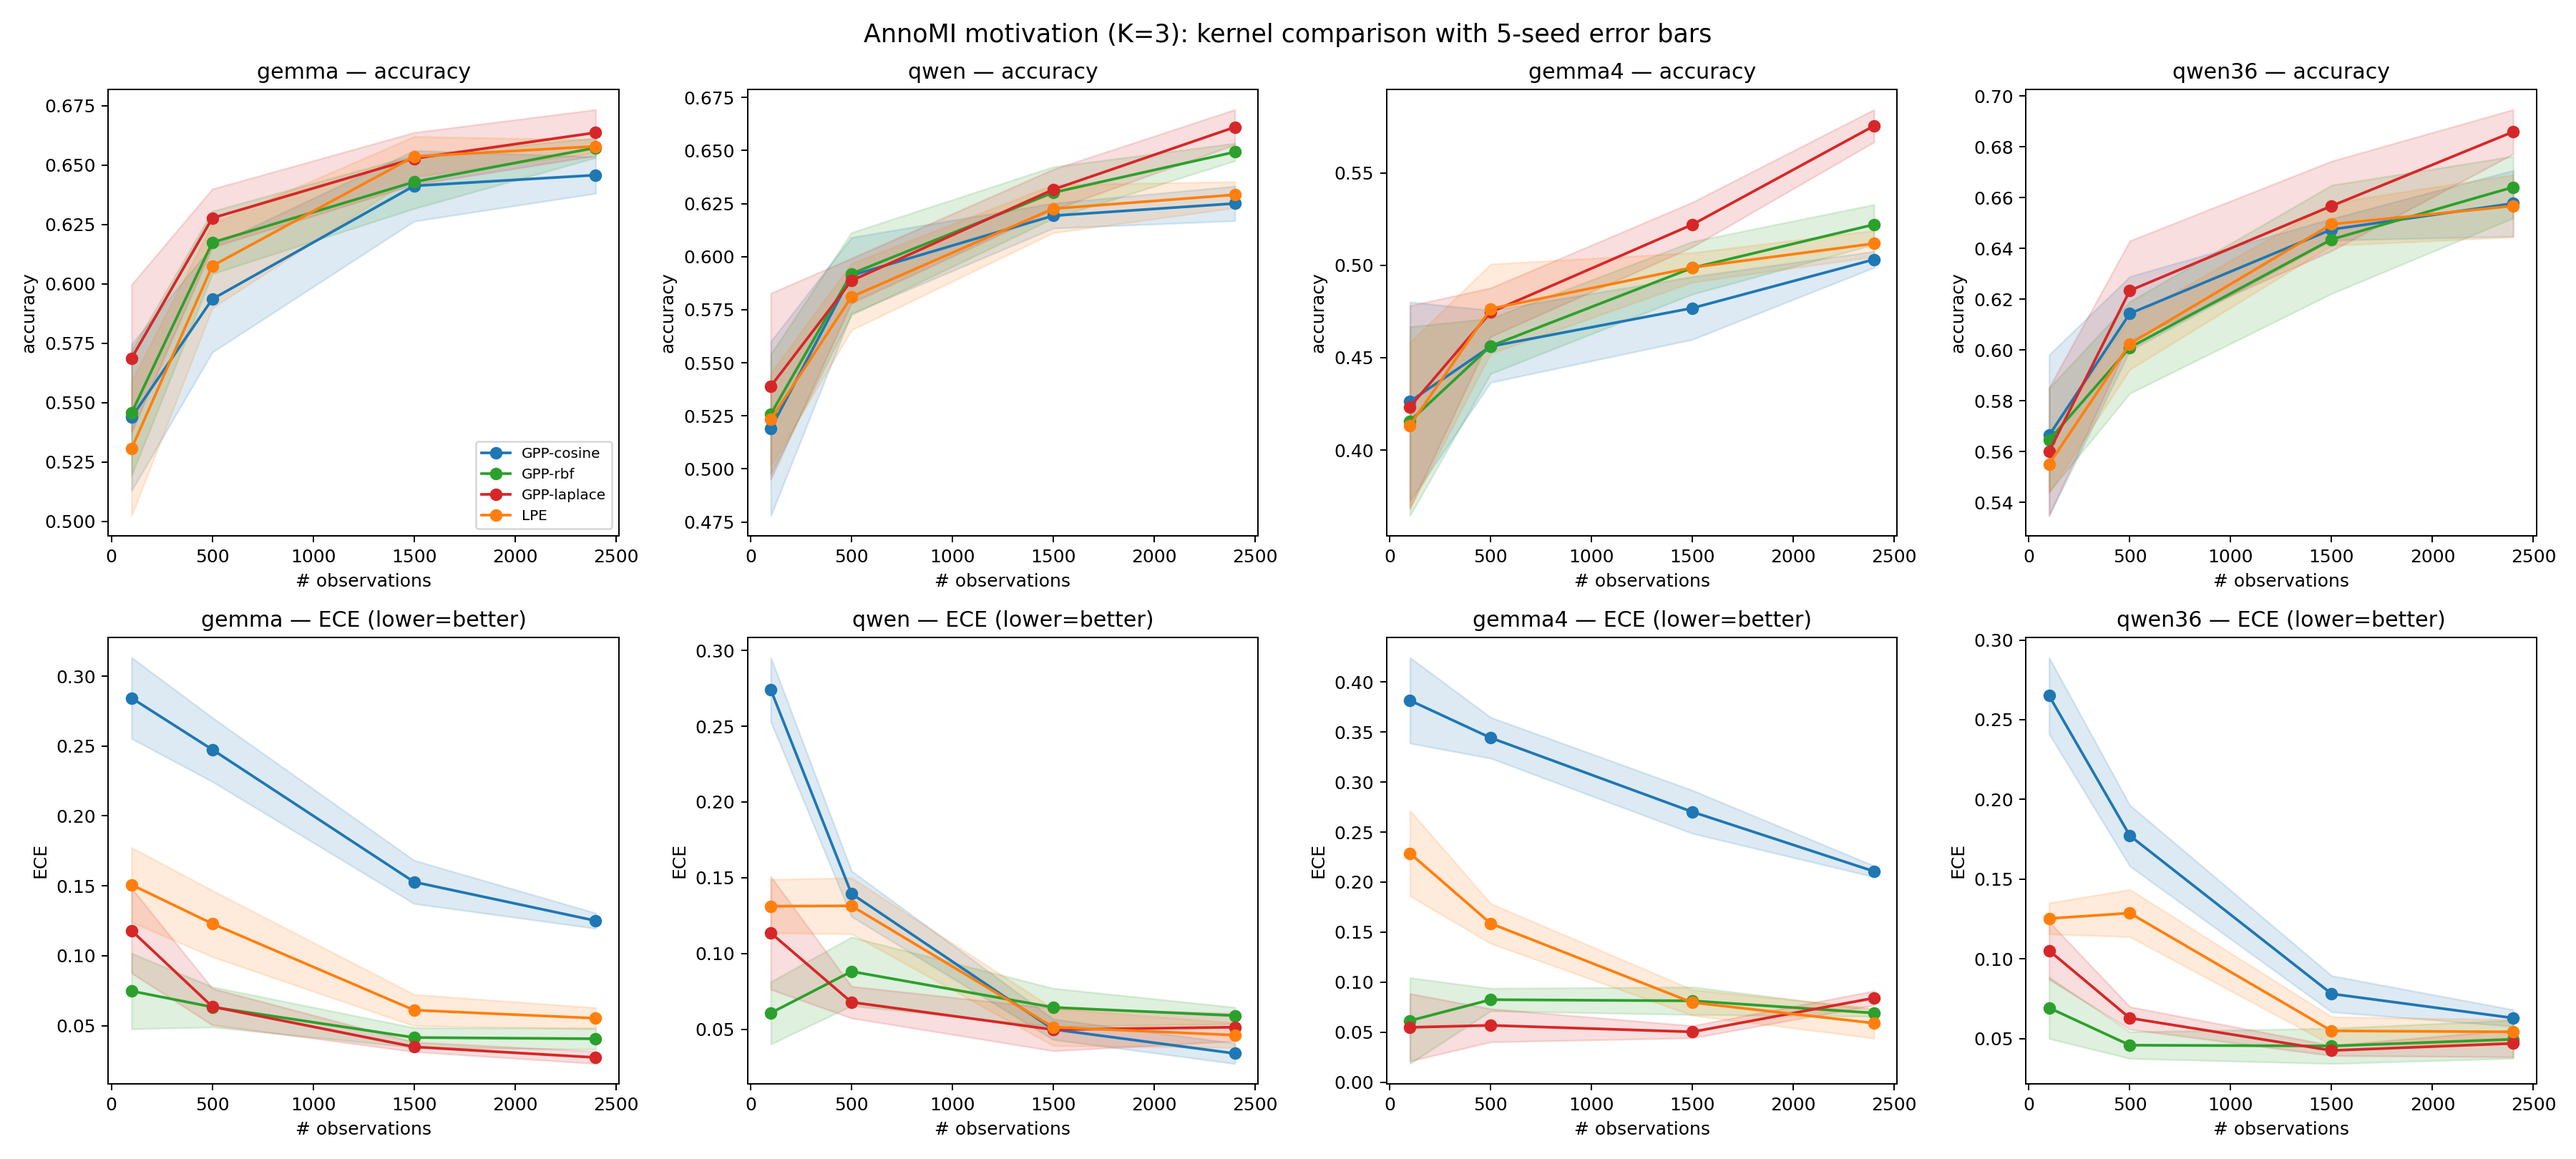
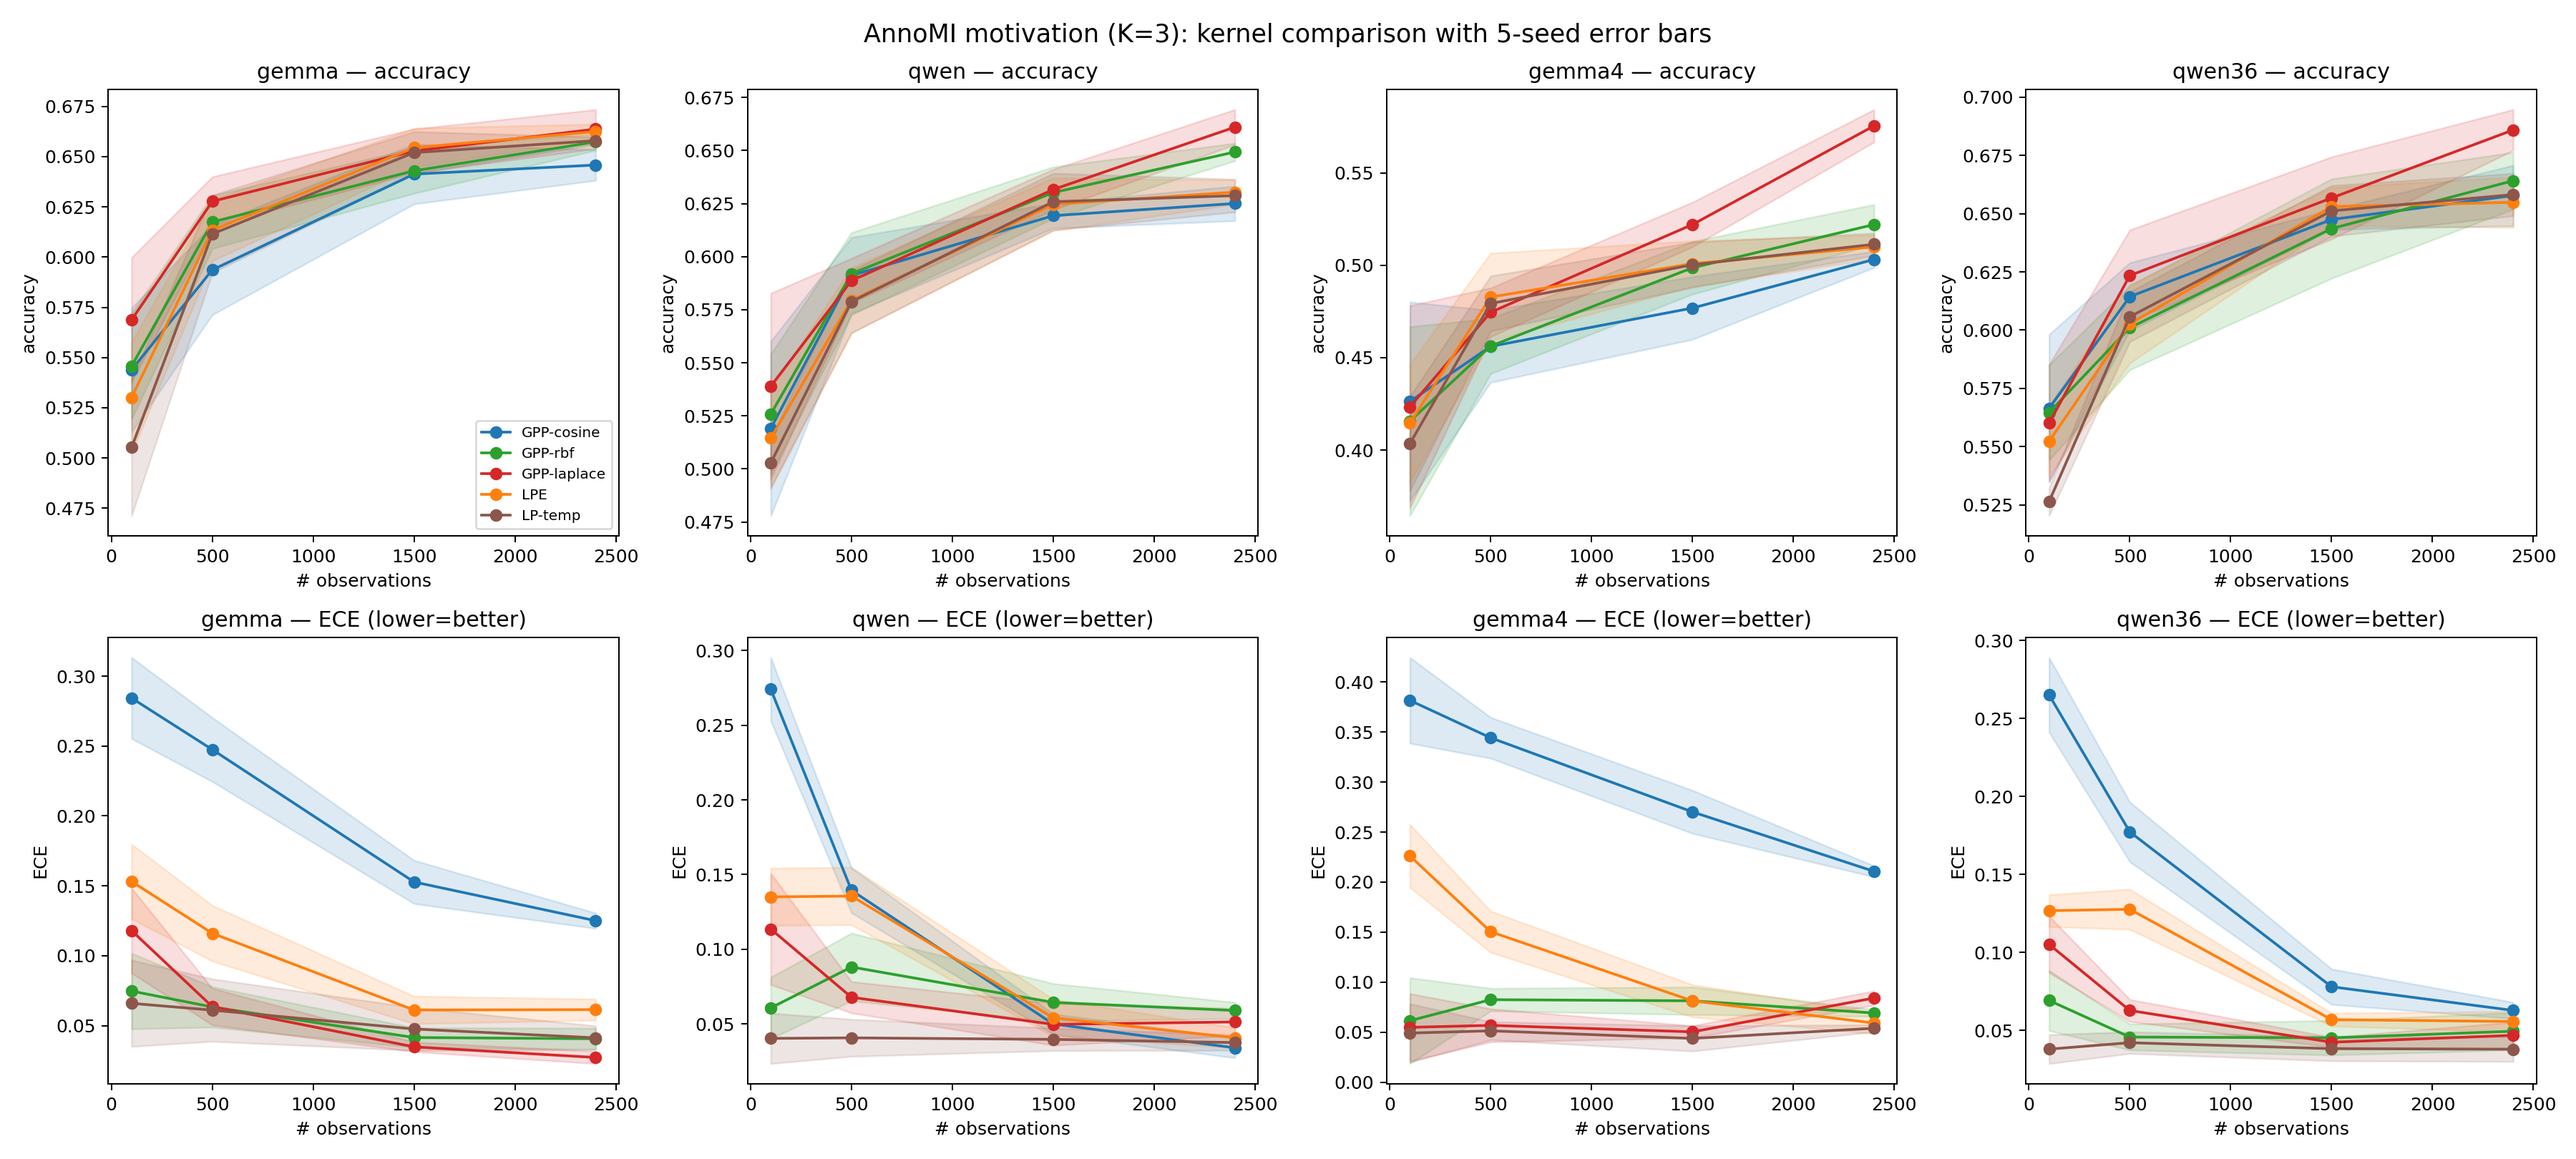
Add temperature-scaled LP baseline (CV-fit T) to AnnoMI calibration comparison
LP-temp: standard easy-calibration-fix baseline. Fit scalar T on cross-validated
out-of-fold logits over all observations (no test leakage), refit LP on all obs,
apply T to test. (An earlier single-25%-split version over-sharpened on the
in-distribution split -> ECE ~0.42; CV-TS is the best-practice recipe.)

Result (n=2400, 5 seeds): LP-temp is calibration-competitive (ECE 0.037-0.054,
beats GPP-Laplace on 3/4 models) but lower accuracy on all 4 (e.g. gemma4 0.511
vs 0.576). Net: GPP-Laplace uniquely gives best accuracy AND competitive
calibration in one model with no separate calibration step.

diff --git a/experiments/calibration_study/annomi_kernel_repeats.py b/experiments/calibration_study/annomi_kernel_repeats.py
@@ -61,31 +61,36 @@ def predict(method, Xtr, ytr, Xte):
                                num_classes=K, repeats=50)
         return np.array(m['categorical_mu'])
     if method == 'LP-temp':
-        # Temperature-scaled logistic probe: standard "easy calibration fix" baseline.
-        # Fit LP on a sub-split, fit scalar T on a held-out split (NO test leakage), apply to test.
-        mu, sd = Xtr.mean(0), Xtr.std(0) + 1e-8
-        Xtr_z, Xte_z = (Xtr - mu) / sd, (Xte - mu) / sd
-        try:
-            Xf, Xv, yf, yv = train_test_split(Xtr_z, ytr, test_size=0.25, random_state=0, stratify=ytr)
-        except ValueError:
-            Xf, Xv, yf, yv = Xtr_z, Xtr_z, ytr, ytr      # too few per class to split
-        clf = sklm.LogisticRegression(multi_class='multinomial', solver='lbfgs', max_iter=1000).fit(Xf, yf)
-
-        def logits(X):
-            dec = clf.decision_function(X)
-            if dec.ndim == 1:                            # K==2 edge case
-                dec = np.vstack([-dec, dec]).T
-            full = np.full((len(X), K), -1e9); full[:, clf.classes_.astype(int)] = dec
-            return full
+        # Temperature-scaled logistic probe: the standard "easy calibration fix".
+        # Best-practice recipe: fit the scalar T on cross-validated out-of-fold
+        # logits over ALL observations (no test leakage), then refit LP on all
+        # observations and apply T to the test logits.
+        from sklearn.model_selection import cross_val_predict
 
         def softmax_T(L, T):
             z = L / T; z = z - z.max(1, keepdims=True); e = np.exp(z); return e / e.sum(1, keepdims=True)
 
-        Lv, Lte = logits(Xv), logits(Xte)
-        def val_nll(T):
-            p = softmax_T(Lv, T); return -np.mean(np.log(p[np.arange(len(yv)), yv] + 1e-12))
-        T = float(minimize_scalar(val_nll, bounds=(0.05, 100.0), method='bounded').x)
-        return softmax_T(Lte, T)
+        def pad(dec, classes):
+            if dec.ndim == 1:                              # K==2 edge case
+                dec = np.vstack([-dec, dec]).T
+            full = np.full((len(dec), K), -1e9); full[:, classes.astype(int)] = dec
+            return full
+
+        mu, sd = Xtr.mean(0), Xtr.std(0) + 1e-8
+        Xtr_z, Xte_z = (Xtr - mu) / sd, (Xte - mu) / sd
+        mk = lambda: sklm.LogisticRegression(multi_class='multinomial', solver='lbfgs', max_iter=1000)
+        cv = int(min(5, np.min(np.bincount(ytr))))
+        try:
+            oof = cross_val_predict(mk(), Xtr_z, ytr, cv=cv, method='decision_function')
+            classes = np.unique(ytr)
+        except Exception:
+            c = mk().fit(Xtr_z, ytr); oof = c.decision_function(Xtr_z); classes = c.classes_
+        Loof = pad(np.asarray(oof), classes)
+        T = float(minimize_scalar(
+            lambda T: -np.mean(np.log(softmax_T(Loof, T)[np.arange(len(ytr)), ytr] + 1e-12)),
+            bounds=(0.05, 100.0), method='bounded').x)
+        clf = mk().fit(Xtr_z, ytr)
+        return softmax_T(pad(clf.decision_function(Xte_z), clf.classes_), T)
 
 
 rows = []
